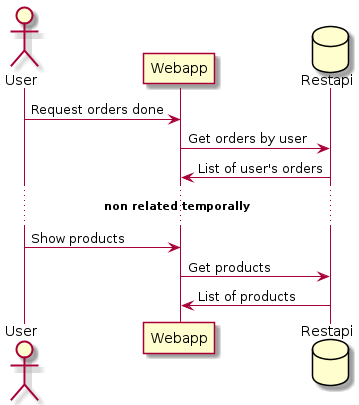
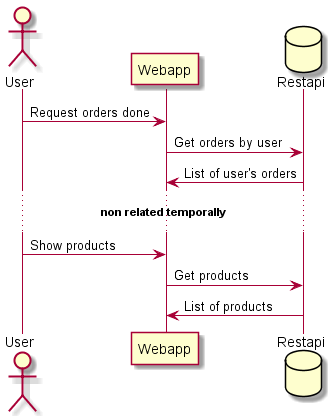
Updates

diff --git a/index.html b/index.html
@@ -466,7 +466,10 @@ body.book #toc,body.book #preamble,body.book h1.sect0,body.book .sect1>h2{page-b
 </li>
 <li><a href="#section-runtime-view">6. Runtime View</a>
 <ul class="sectlevel2">
-<li><a href="#_view_orders_and_products">6.1. View orders and products</a></li>
+<li><a href="#_sign_up_and_sign_in">6.1. Sign up and sign in</a></li>
+<li><a href="#_view_orders_and_products">6.2. View orders and products</a></li>
+<li><a href="#_add_product_to_cart">6.3. Add product to cart</a></li>
+<li><a href="#_confirm_purchase">6.4. Confirm purchase</a></li>
 </ul>
 </li>
 <li><a href="#section-deployment-view">7. Deployment View</a>
@@ -559,7 +562,7 @@ For documentation of your own system you use better the <em>plain</em> version.<
 </div>
 <div class="sect2">
 <h3 id="_requirements_overview">1.1. Requirements Overview</h3>
-<div class="paragraph arc42help">
+<div class="paragraph">
 <p>The following diagram represents the functional requirements of the application&#8230;&#8203; (Link here Use Case diagram).</p>
 </div>
 <div class="paragraph">
@@ -1438,10 +1441,18 @@ You will mainly capture scenarios in your documentation to communicate your arch
 </div>
 </div>
 <div class="sect2">
-<h3 id="_view_orders_and_products">6.1. View orders and products</h3>
+<h3 id="_sign_up_and_sign_in">6.1. Sign up and sign in</h3>
 <div class="imageblock">
 <div class="content">
-<img src="./images/Sequence%20diagram.png" alt="Sequence diagram" width="359" height="405">
+<img src="./images/Sequence%20diagram_signUp_signIn.png" alt="Sequence diagram signUp signIn" width="416" height="757">
+</div>
+</div>
+</div>
+<div class="sect2">
+<h3 id="_view_orders_and_products">6.2. View orders and products</h3>
+<div class="imageblock">
+<div class="content">
+<img src="./images/Sequence%20diagram.png" alt="Sequence diagram" width="330" height="416">
 </div>
 </div>
 <div class="paragraph">
@@ -1456,6 +1467,32 @@ You will mainly capture scenarios in your documentation to communicate your arch
 <p>Restapi will manage requests in order to get a response from database system. The response will be shown by the webapp in diferent views.</p>
 </li>
 </ul>
+</div>
+</div>
+<div class="sect2">
+<h3 id="_add_product_to_cart">6.3. Add product to cart</h3>
+<div class="imageblock">
+<div class="content">
+<img src="./images/Sequence%20diagram_AddProduct.png" alt="Sequence diagram AddProduct" width="648" height="392">
+</div>
+</div>
+<div class="paragraph">
+<p>Many details to keep in mind:</p>
+</div>
+<div class="ulist">
+<ul>
+<li>
+<p>Depending on whether the user is logged in or not, the product is stored temporarily in the session or persistently in the database.</p>
+</li>
+</ul>
+</div>
+</div>
+<div class="sect2">
+<h3 id="_confirm_purchase">6.4. Confirm purchase</h3>
+<div class="imageblock">
+<div class="content">
+<img src="./images/Sequence%20diagram_Confirm_purchase.png" alt="Sequence diagram Confirm purchase" width="590" height="659">
+</div>
 </div>
 <div style="page-break-after: always;"></div>
 </div>
@@ -1843,7 +1880,7 @@ concrete and measurable.</p>
 </div>
 <div class="imageblock">
 <div class="content">
-<img src="./images/mindmap.svg" alt="mindmap" width="375" height="416">
+<img src="./images/mindmap.svg" alt="mindmap" width="367" height="425">
 </div>
 </div>
 </div>
@@ -2215,7 +2252,7 @@ Created by Dr. Peter Hruschka &amp; Dr. Gernot Starke.</p>
 </div>
 <div id="footer">
 <div id="footer-text">
-Last updated 2022-02-19 12:12:49 +0100
+Last updated 2022-02-12 13:10:45 +0100
 </div>
 </div>
 </body>
